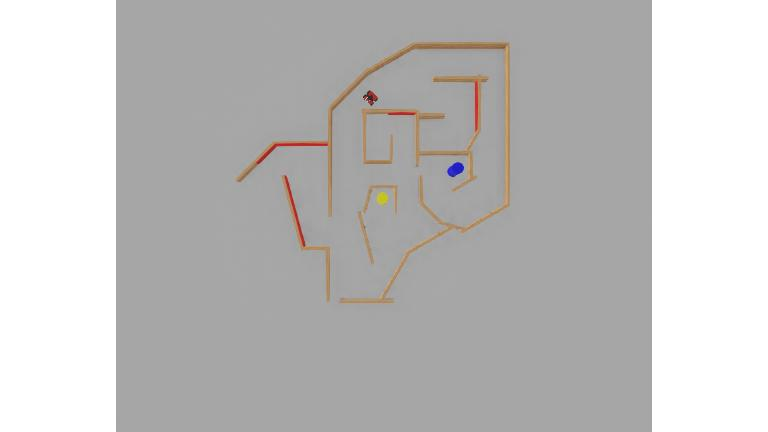
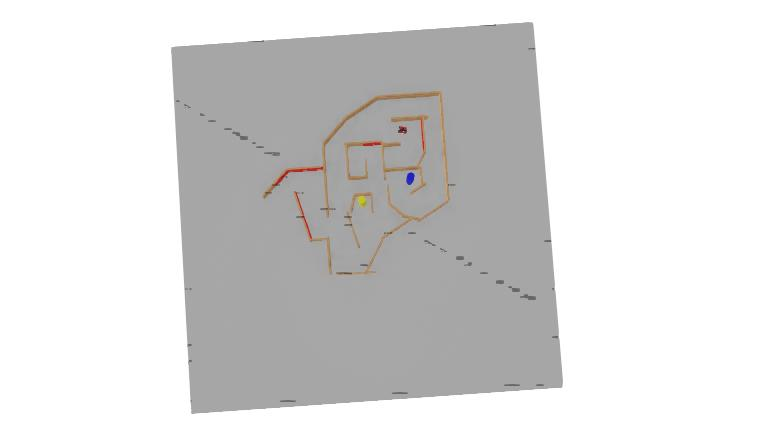
70% mapping done
add mapping functions

diff --git a/source/Maze1/controllers/rosbot_python/my_robot.py b/source/Maze1/controllers/rosbot_python/my_robot.py
@@ -11,8 +11,10 @@ MAP_SIZE = 1000
 RESOLUTION = 0.01
 
 OBSTACLE_VALUE = 1
+FREESPACE_VALUE = 0
+UNKNOWN_VALUE = 255
 
-grid_map = cv2.imread('../../textures/path_test_map.bmp', cv2.IMREAD_GRAYSCALE)
+grid_map = np.full((MAP_SIZE, MAP_SIZE), UNKNOWN_VALUE, dtype=np.uint8)
 
 def get_angle_diff(a, b):
         diff = a - b
@@ -30,8 +32,8 @@ class MyRobot:
         self.wheel_radius = WHEEL_RADIUS
         self.axle_length = AXLE_LENGTH
 
-    def step(self):
-        return self.robot.step(self.time_step)
+    def step(self, time_step=TIME_STEP):
+        return self.robot.step(time_step)
 
     def stop_motor(self):
         for motor in self.motors.values():
@@ -97,6 +99,49 @@ class MyRobot:
         x = (map_x - MAP_SIZE // 2) * RESOLUTION
         y = (MAP_SIZE // 2 - map_y) * RESOLUTION
         return float(x), float(y)
+
+    def adapt_direction(self):
+        def turn_right_milisecond(s=200):  
+            self.set_robot_velocity(4, -4)
+            self.step(s)
+
+        def turn_left_milisecond(s=200):
+            self.set_robot_velocity(-4, 4)
+            self.step(s)
+
+        def go_backward_milisecond(s=200):
+            self.set_robot_velocity(-4, -4)
+            self.step(s)
+
+        # while there is an obstacle in front
+        count = 0
+        self.stop_motor()
+        last_turn = 'right'
+        distances = self.get_distances()
+        while (min(distances[0], distances[2]) < 0.3 and count < 4):
+            print(f"Obstacle detected! Distances: {distances}")
+            second = random.randint(100, 300)
+            if distances[0] < distances[2]:
+                turn_right_milisecond(second)
+                last_turn = 'right'
+            else:
+                turn_left_milisecond(second)
+                last_turn = 'left'
+
+            count += 1
+
+            distances = self.get_distances()
+        
+        if count == 4:
+            # if there is an obstacle behind
+            if (min(distances[1], distances[3]) > 0.3):
+                go_backward_milisecond(200)
+            
+            if last_turn == 0:
+                turn_left_milisecond(800)
+            else:
+                turn_right_milisecond(800)
+
 
     def dwa_planner(self, world_target):
         MAX_SPEED = MAX_VELOCITY * self.wheel_radius
@@ -169,6 +214,13 @@ class MyRobot:
         return False
     
     def explore(self):
+        count = 0
+        while self.step(TIME_STEP) != -1 and count < 100000:
+            self.adapt_direction()
+            count += 1 
+
+            self.set_robot_velocity(8, 8)
+
         start_point = [200, 250]
         end_point = [600, 500]
         return self.grid_map, start_point, end_point 
@@ -239,3 +291,60 @@ class MyRobot:
                 if self.follow_local_target(target):
                     break
         self.stop_motor()
+
+    def get_pointcloud_2d(self):
+        points = self.lidar.getPointCloud()
+        points = np.array([[point.x, point.y] for point in points])
+        points = points[~np.isinf(points).any(axis=1)]
+        return points
+    
+    def transform_points_to_world(self, points_local):
+        """
+        Transform a batch of 2D points from robot-local frame to world frame using NumPy.
+
+        Parameters:
+            points_local: np.ndarray of shape (N, 2) — local [x, y] points
+
+        Returns:
+            points_world: np.ndarray of shape (N, 2) — transformed points in world coordinates
+        """
+        # Get robot pose
+        x_robot, y_robot = self.get_position()
+        theta = self.get_heading('rad')  # yaw
+
+        # Rotation matrix R(theta)
+        R = np.array([
+            [np.cos(theta), -np.sin(theta)],
+            [np.sin(theta),  np.cos(theta)]
+        ])
+
+        # Apply rotation and translation
+        points_rotated = points_local @ R.T  # shape (N, 2)
+        points_world = points_rotated + np.array([x_robot, y_robot])  # broadcast translation
+
+        return points_world
+
+    def get_pointcloud_world_coordinates(self):
+        points_local = self.get_pointcloud_2d()
+        points_world = self.transform_points_to_world(points_local)
+        return points_world
+    
+    def convert_to_map_coordinate_matrix(self, points_world):
+        # Compute transformation from world to map:
+        # - Scaling (1 / RESOLUTION)
+        # - Translation to shift origin to center of map
+
+        # Rotation matrix (identity — no rotation needed in this case)
+        R_map = np.array([
+            [1 / RESOLUTION, 0],
+            [0, -1 / RESOLUTION]  # Flip y-axis
+        ])
+
+        # Translation: move origin to center of map
+        t_map = np.array([MAP_SIZE // 2, MAP_SIZE // 2])
+
+        # Apply matrix transformation
+        points_scaled = points_world @ R_map.T
+        points_map = points_scaled + t_map
+
+        return points_map.astype(np.int32)

diff --git a/source/Maze1/controllers/rosbot_python/visualization.py b/source/Maze1/controllers/rosbot_python/visualization.py
@@ -20,9 +20,26 @@ class Visualizer():
     def clear_screen(self):
         self.screen.fill((0,0,0))
 
+    def display_screen(self):
+        pygame.display.flip()
+
+    def convert_map_to_screen(self, map_x, map_y):
+        screen_x = int(map_x * self.window_size[0] / MAP_SIZE)
+        screen_y = int(map_y * self.window_size[1] / MAP_SIZE)
+        return screen_x, screen_y
+
+    def draw_robot(self, robot):
+        current_pos = robot.get_map_position()
+
+        screen_x = int(current_pos[0] * self.window_size[0] / MAP_SIZE)
+        screen_y = int(current_pos[1] * self.window_size[1] / MAP_SIZE)
+
+        pygame.draw.circle(self.screen, (0, 0, 255), (screen_x, screen_y), 5)  # Bán kính = 5 pixel
+
+
     def create_map_surface(self, visual_map):
         map_resized = cv2.resize(visual_map, window_size)
-        map_surface = pygame.surfarray.make_surface(np.transpose(map_resized, (1, 0, 2)))
+        map_surface = pygame.surfarray.make_surface(map_resized)
         return map_surface
 
     def draw_path(self, path):
@@ -32,6 +49,8 @@ class Visualizer():
 
         for point in scaled_path:
             pygame.draw.circle(self.screen, (255, 0, 0), point, 1)
+    
+
 
     def draw_robot_to_target(self, robot, target):
         current_pos = robot.get_map_position()
@@ -51,6 +70,11 @@ class Visualizer():
         dir_vector = (np.cos(heading_rad), np.sin(heading_rad))
         p2 = (p1[0] + dir_vector[0] * 100, p1[1] - dir_vector[1] * 100)
         self.draw_infinite_line((0, 255, 0), p1, p2, width=2)
+
+    def draw_line(self, map_p1, map_p2):
+        screen_p1 = self.convert_map_to_screen(map_p1[0], map_p1[1])
+        screen_p2 = self.convert_map_to_screen(map_p2[0], map_p2[1])
+        pygame.draw.line(self.screen, (0, 100, 100), screen_p1, screen_p2, 1)
 
     def draw_infinite_line(self, color, p1, p2, width=2):
         x1, y1 = p1
@@ -92,3 +116,9 @@ class Visualizer():
         self.draw_robot_to_target(robot, target)
         self.draw_robot_orientation(robot)
         pygame.display.flip()
+    
+    def update_screen_with_map(self, grid_map):
+        visual_map = np.stack([grid_map] * 3, axis=-1)
+        visual_map_rgb = np.transpose(visual_map, (1, 0, 2))
+        map_surface = self.create_map_surface(visual_map_rgb)
+        self.screen.blit(map_surface, (0, 0))

diff --git a/source/Maze1/controllers/rosbot_python/rosbot_python.py b/source/Maze1/controllers/rosbot_python/rosbot_python.py
@@ -2,12 +2,57 @@ import pygame
 from controller import Robot, Keyboard, Supervisor
 from setup import setup_robot
 from my_robot import MyRobot
+from visualization import Visualizer
+
+import numpy as np
+
+def draw_bresenham_line(grid_map, start, end):
+    x1, y1 = start
+    x2, y2 = end
+    dx = abs(x2 - x1)
+    dy = abs(y2 - y1)
+    sx = 1 if x1 < x2 else -1
+    sy = 1 if y1 < y2 else -1
+    err = dx - dy
+
+    while True:
+        grid_map[y1][x1] = 0  # Mark the line on the grid map
+        if x1 == x2 and y1 == y2:
+            break
+        err2 = err * 2
+        if err2 > -dy:
+            err -= dy
+            x1 += sx
+        if err2 < dx:
+            err += dx
+            y1 += sy    
 
 def main():
     robot = MyRobot()
+    vis = Visualizer()
+    # grid_map, start_point, end_point = robot.explore()
+    # path = robot.find_path(start_point, end_point)
+    # robot.path_following_pipeline(path)
+    
+    running = True
+    while robot.step(robot.time_step) != -1 and running:
+        for event in pygame.event.get():  # Xử lý tất cả sự kiện
+            if event.type == pygame.QUIT:  # Nếu người dùng đóng cửa sổ
+                running = False
+        vis.clear_screen()
 
-    grid_map, start_point, end_point = robot.explore()
-    path = robot.find_path(start_point, end_point)
-    robot.path_following_pipeline(path)
+        robot.adapt_direction()
+        robot.set_robot_velocity(8,8)
+        points = robot.get_pointcloud_world_coordinates()
+        map_points = robot.convert_to_map_coordinate_matrix(points)
+        
+        cur_map_pos = robot.get_map_position()
+        for map_point in map_points:
+           vis.draw_line(cur_map_pos, map_point)
 
-main()
+        vis.draw_robot(robot)
+        vis.display_screen()
+
+
+main()  
+

diff --git a/source/pplan/controllers/rosbot_python/visualization.py b/source/pplan/controllers/rosbot_python/visualization.py
@@ -92,3 +92,11 @@ class Visualizer():
         self.draw_robot_to_target(robot, target)
         self.draw_robot_orientation(robot)
         pygame.display.flip()
+
+    def update_screen_with_map(self, visual_map):
+        self.clear_screen()
+        map_surface = self.create_map_surface(visual_map)
+        self.screen.blit(map_surface, (0, 0))
+        pygame.display.flip()
+
+        
